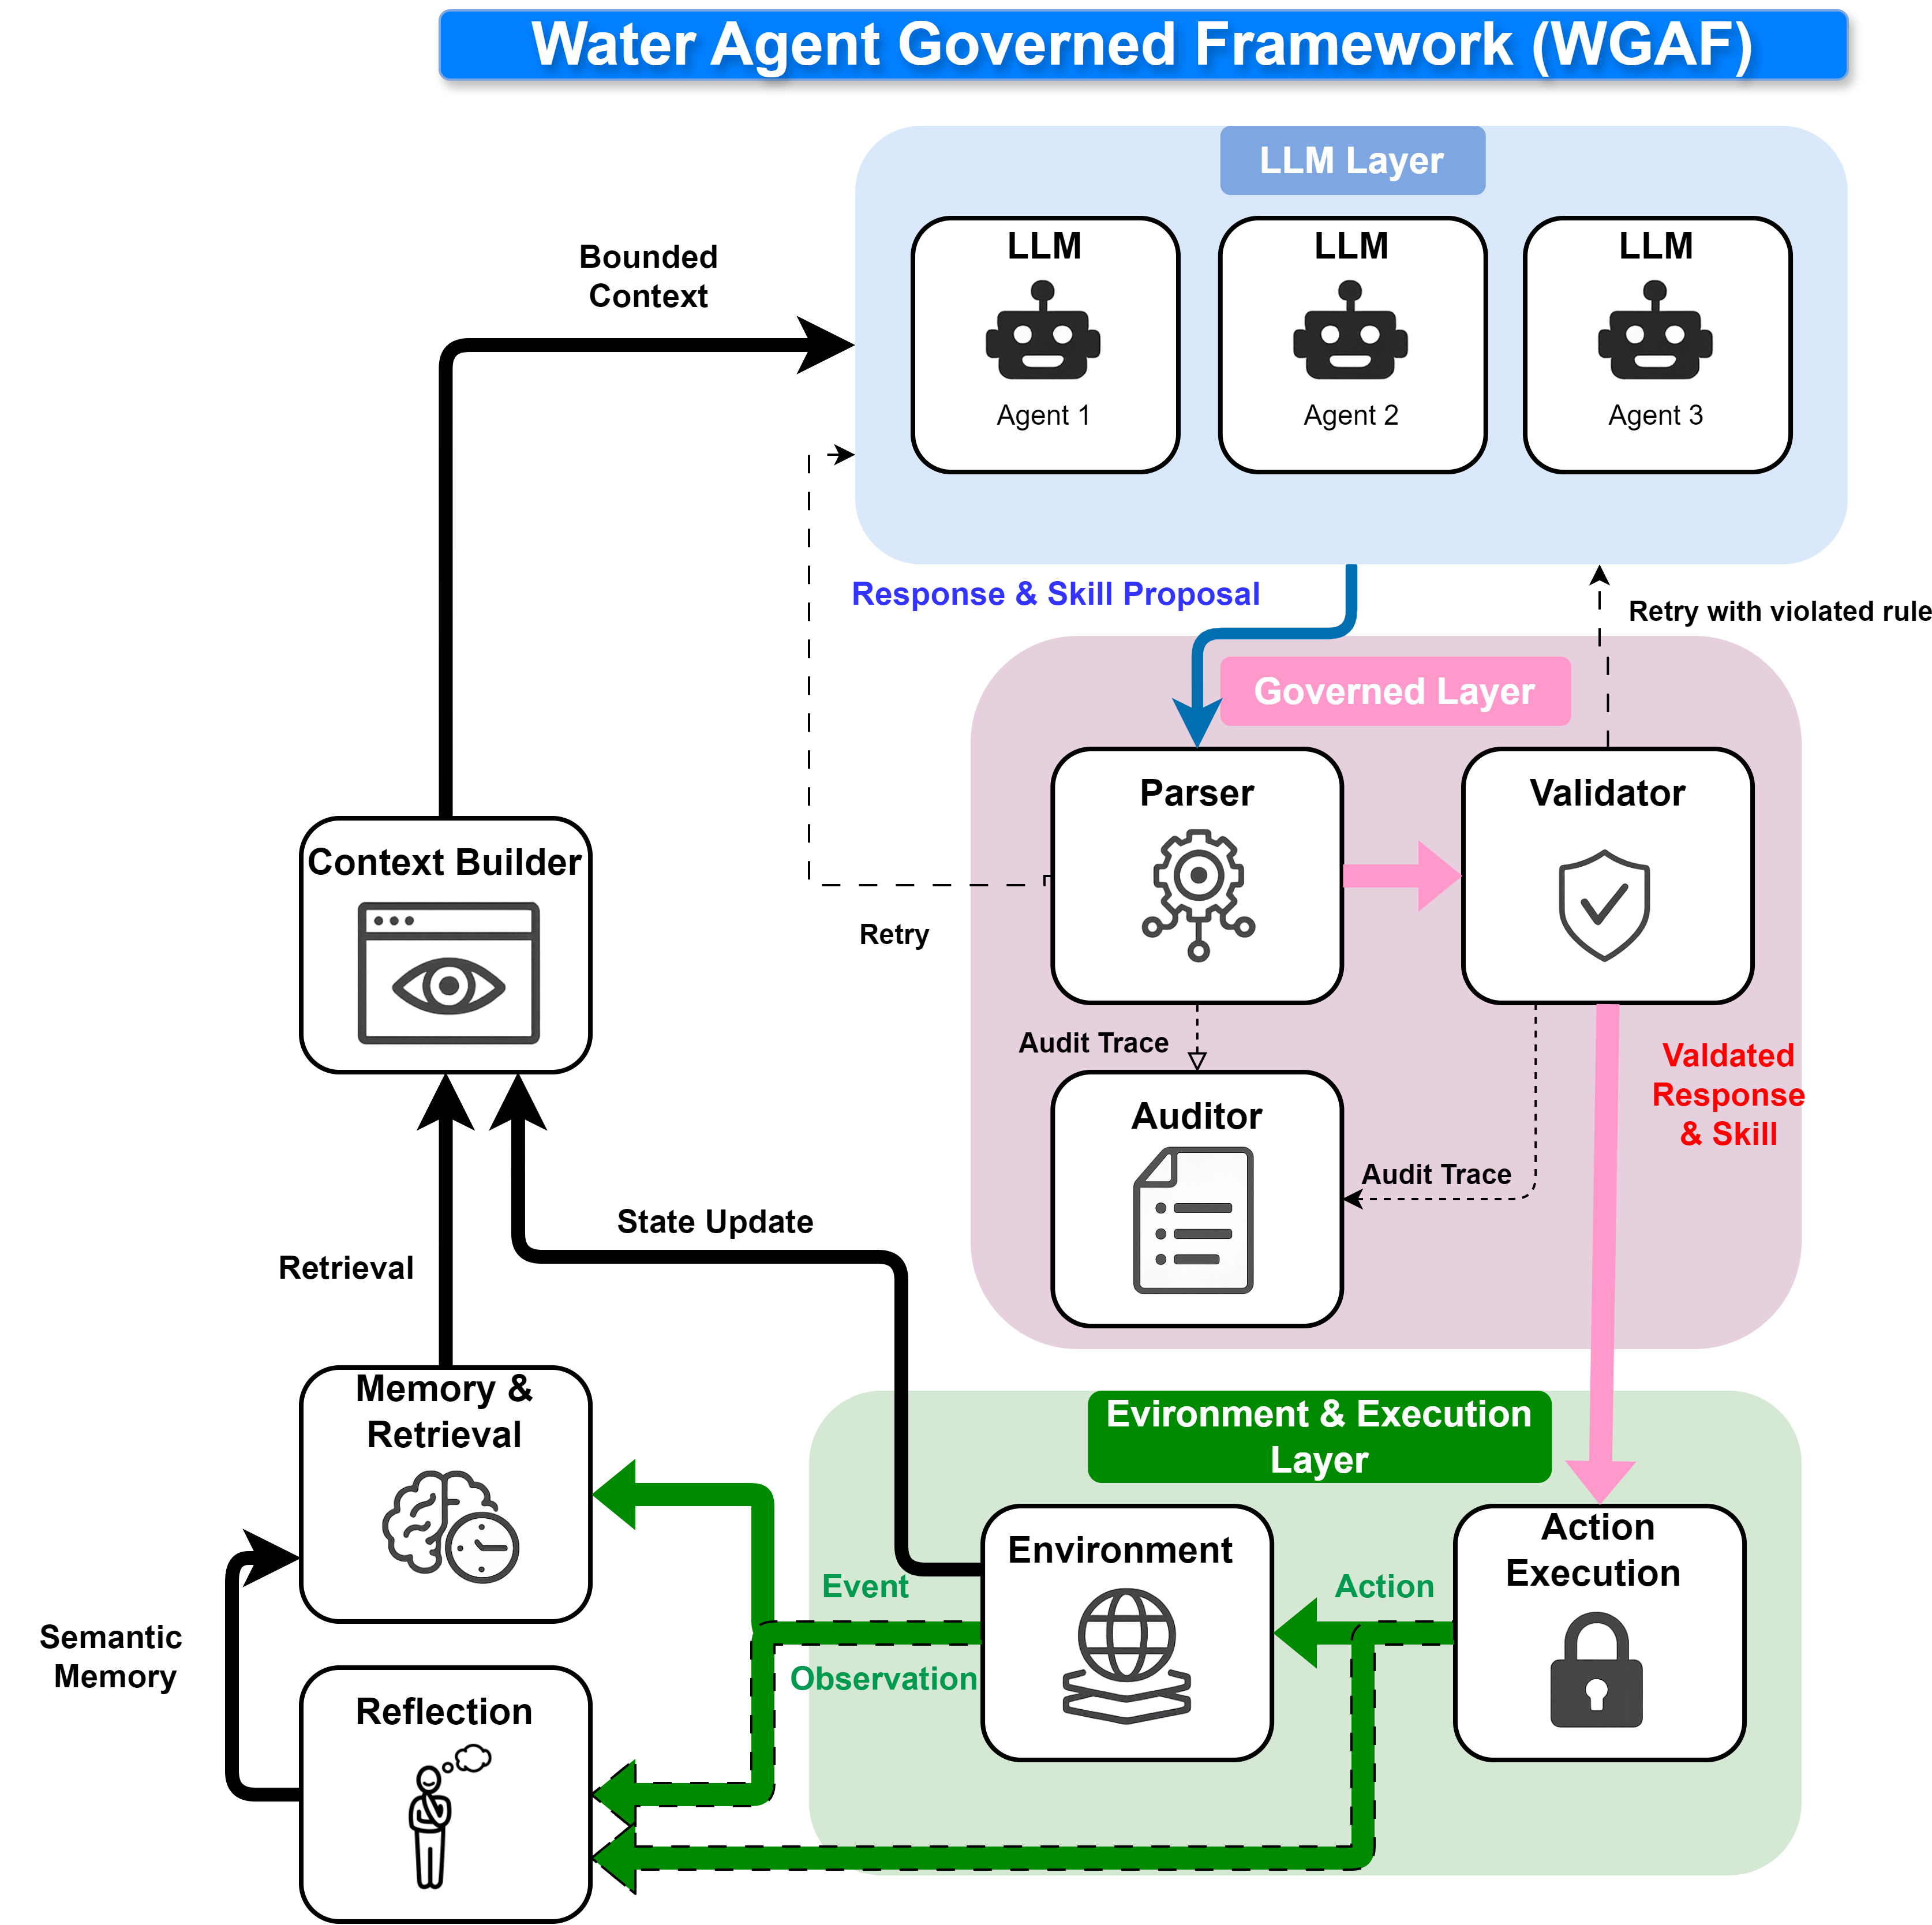
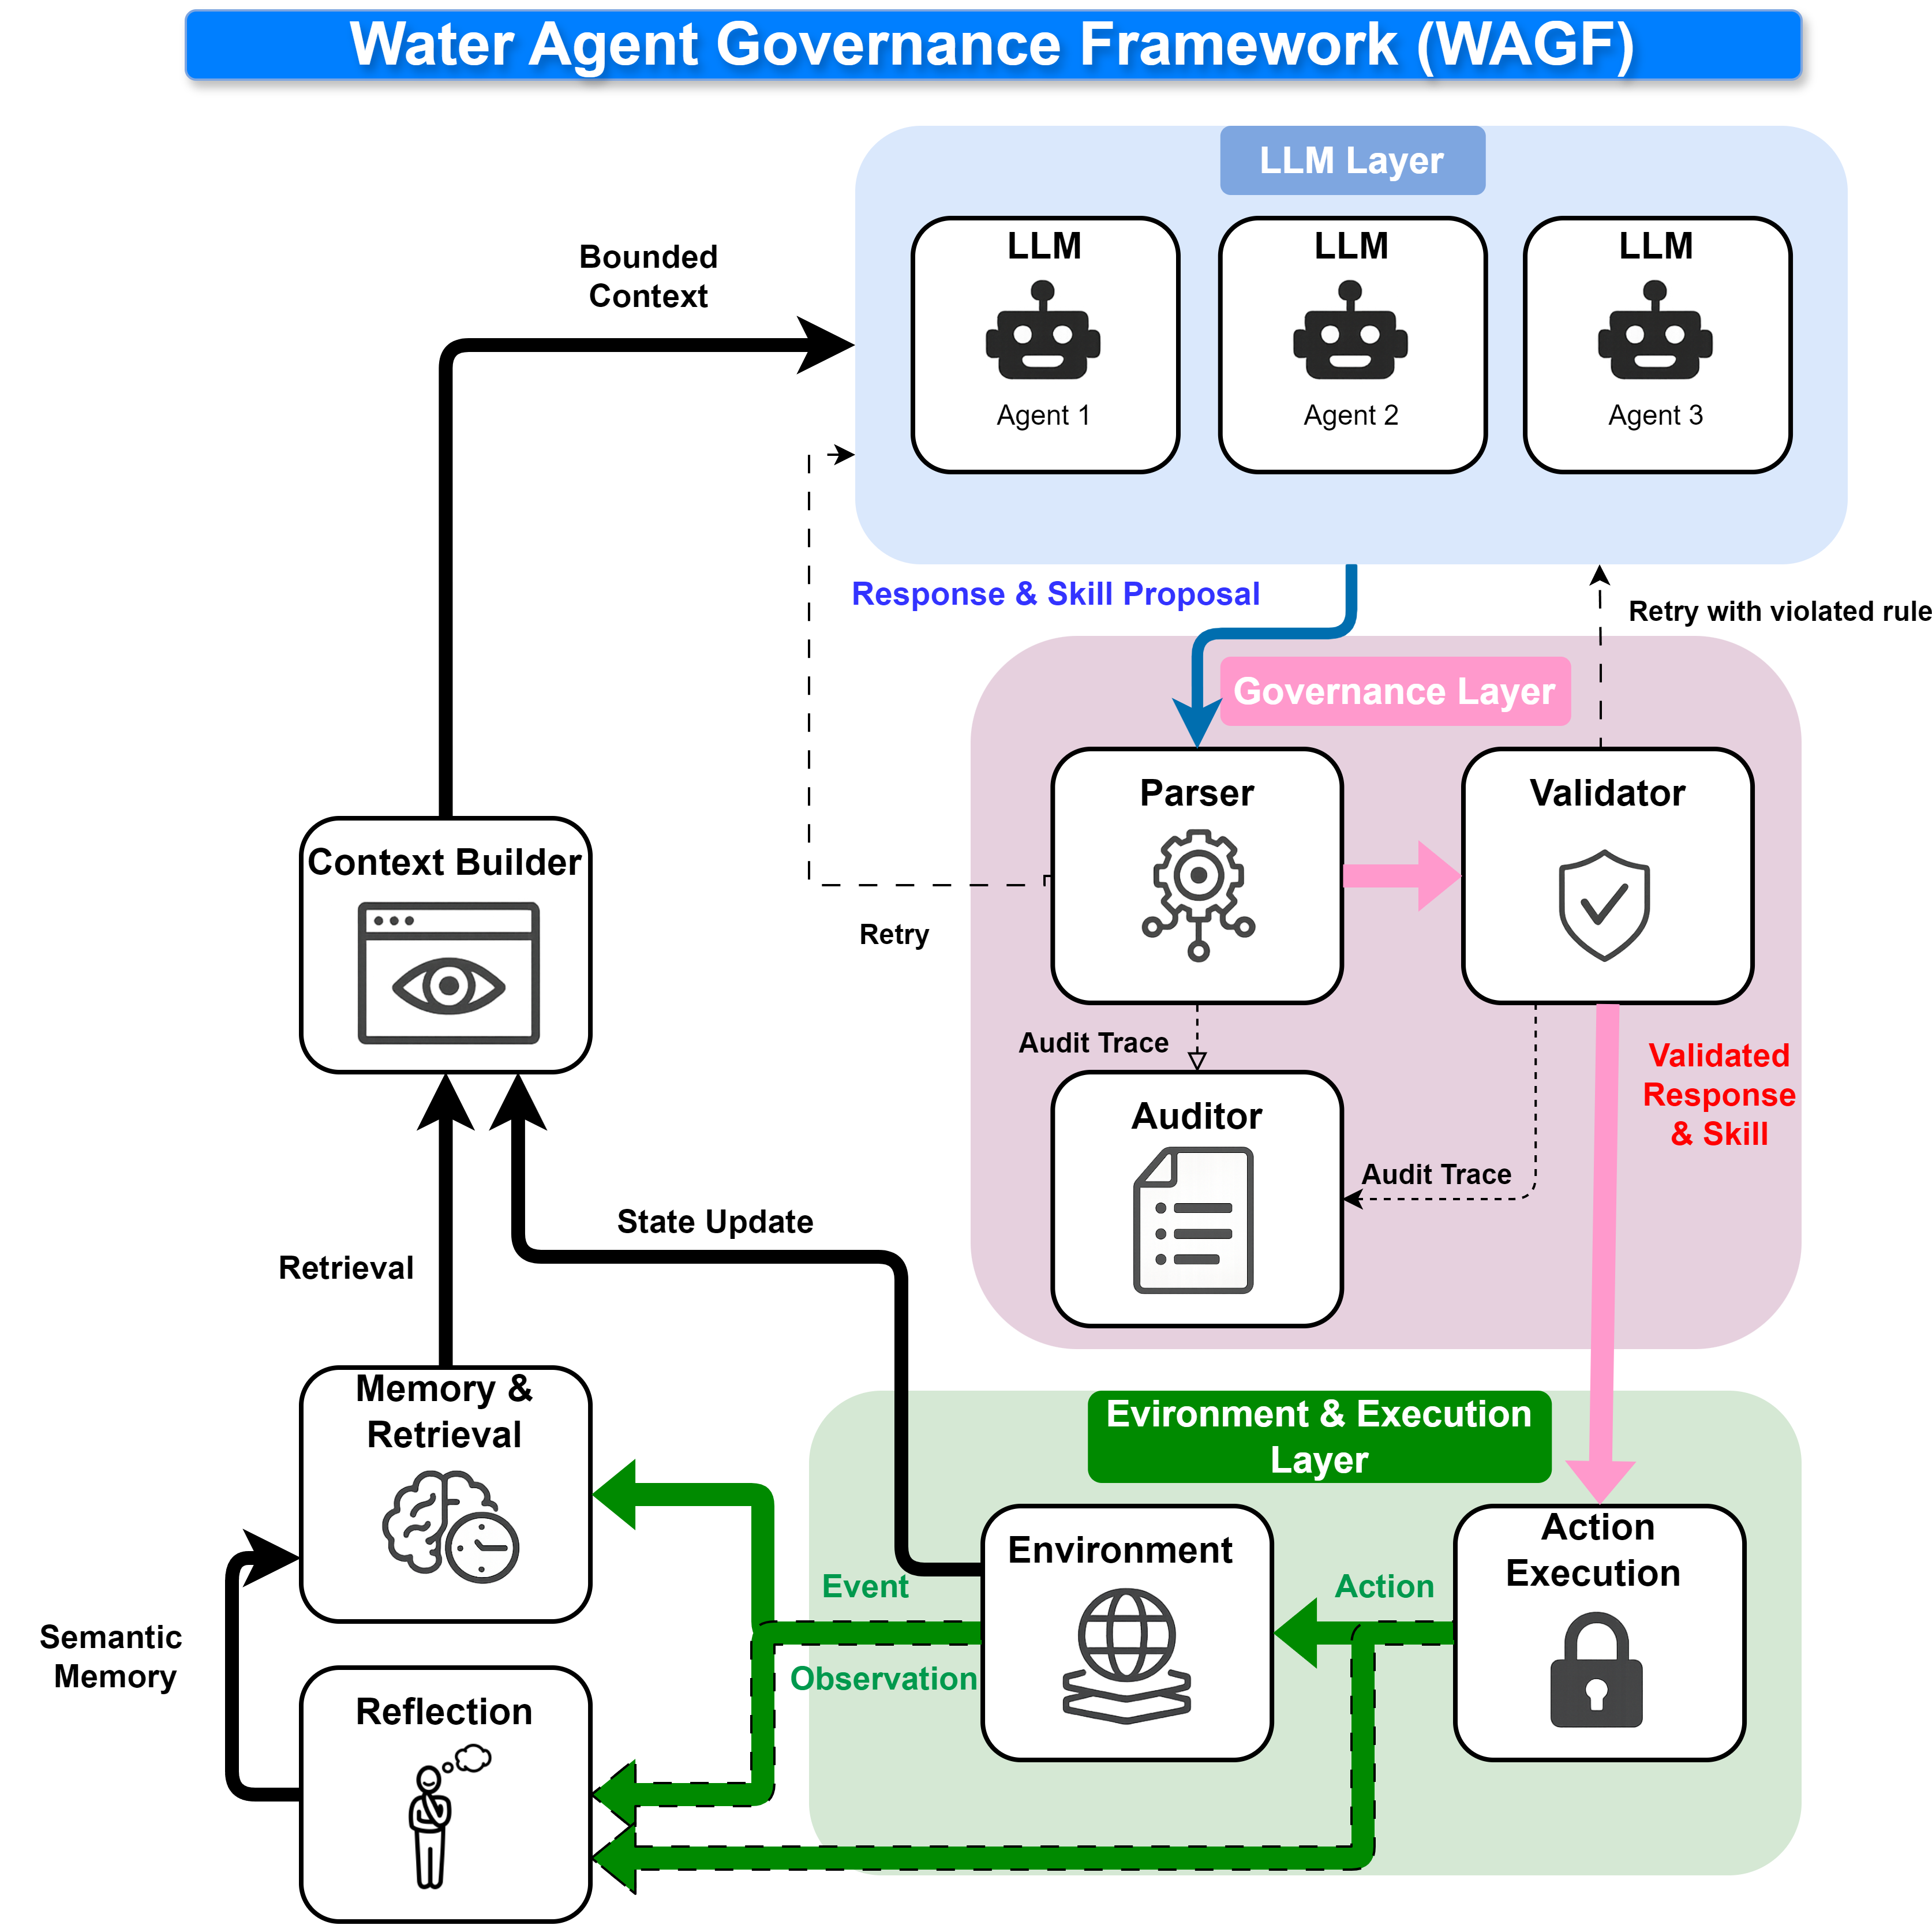
paper(NW): Fig 1 water-anchored + Fig 2/3 best-expression captions + cleanup
Fig 1 update:
- docs/architecture.png: water-themed architecture (Household agents,
  flood scene in Environment, water-aligned flow labels). Drawio source
  worked manually; PNG transferred to paper/nature_water/figures/
  (Fig1_framework.png gitignored, not staged).
- compile_paper.py: Fig 1 caption rewritten to flood-as-illustration
  framing; explicit observable (iii) cross-domain bridge to irrigation;
  Context Builder framed via "available information".

Fig 2 (irrigation case) caption:
- Title: "Colorado River irrigation case" — explicit water anchor.
- Setup follows the design tradition of Hung and Yang (2021).
- WSA / ACA letters spelled out (Very Low / Low / Moderate / High / Very High).
- Cell handling: empty cells shaded grey; pies + decision counts retained.
- Mechanism interpretation: anticipatory extraction (Libecap, 2011).

Fig 3 (flood case) caption:
- Title: "Household flood-adaptation case".
- Rule-based agent attributed as reimplementation in the style of Haer et al. (2017).
- Flood years marked F (identical hydrology trace across conditions).
- TA / CA letters spelled out.
- FI+HE composite split into constituents explained.
- Cognitive compression caveat preserved.

Paper drafts cleanup:
- Removed obsolete drafts (methods_v5, section2_v15, section3_v15) —
  earlier session cleanup; now staged as deletions.

Pending (separate decision):
- Flood-primary structural pivot (swap Fig 2 / Fig 3 order; restructure
[…]

Changed region(s): [[0.0932, 0.0, 0.963, 0.0624], [0.8387, 0.53, 0.9319, 0.5923], [0.6213, 0.3429, 0.8076, 0.3741]]

diff --git a/paper/nature_water/scripts/compile_paper.py b/paper/nature_water/scripts/compile_paper.py
@@ -374,7 +374,7 @@ def compile_main_paper():
     # ==================== ABSTRACT ====================
     add_heading(doc, "Abstract", level=1)
 
-    abstract_md = (DRAFTS / "abstract_v10.md").read_text(encoding='utf-8')
+    abstract_md = (DRAFTS / "abstract_v15.md").read_text(encoding='utf-8')
     # Extract just the abstract body (between the --- markers)
     match = re.search(r'---\s*\n(.*?)\n---', abstract_md, re.DOTALL)
     if match:
@@ -390,9 +390,9 @@ def compile_main_paper():
 
     # ==================== MAIN SECTIONS ====================
     sections_files = [
-        "introduction_v10.md",
-        "section2_v11_results.md",
-        "section3_v11_discussion.md",
+        "introduction_v16.md",
+        "section2_v17_results.md",
+        "section3_v17_discussion.md",
     ]
 
     # Figure insertion map: after which section heading to insert which figure
@@ -400,54 +400,54 @@ def compile_main_paper():
     # Main text: 3 figures (framework, irrigation, flood)
     # Tables moved to Extended Data (not counted toward 4-item limit)
     figure_after_section = {
-        "introduction_v10.md": [
+        "introduction_v16.md": [
             (FIGURES_DIR / "Fig1_framework.png",
-             "**Figure 1. Water Agent Governance Framework architecture.** "
-             "At each decision step, an LLM agent receives contextual information "
-             "(personal state, social observations, system indicators) and proposes "
-             "an action with natural-language reasoning. The governance pipeline "
-             "validates the proposal through six sequential checks: schema validation, "
-             "action legality, physical feasibility, institutional compliance, "
-             "magnitude plausibility, and theory consistency. Failed proposals receive "
-             "structured feedback for revision (up to three attempts). "
-             "All domain-specific knowledge is expressed through declarative configuration "
-             "files (action registries, agent-type specifications, persona prompts), "
-             "making the architecture transferable across water domains without code changes.",
+             "**Figure 1. Water Agent Governance Framework architecture, illustrated for the household flood-adaptation case.** "
+             "At each annual step, the Context Builder assembles the available information for an LLM household agent "
+             "(flood zone, income, prior adaptation state, persona). The agent proposes an adaptation action "
+             "(do nothing, purchase insurance, elevate, or relocate) together with natural-language reasoning that names its threat and coping appraisals. "
+             "The Governance Layer screens the proposal: the Parser converts it to a structured candidate, the Validator runs the rule-check pipeline "
+             "(behavioural rules from Protection Motivation Theory — threat × coping coherence — and physical rules such as affordability and elevation lock), "
+             "and the Auditor records both a Parsing Log and a Rule-Check Log. "
+             "Approved actions execute before the stochastic flood event resolves in the Environment; the agent then observes its own adaptation outcome "
+             "and the choices of neighbours. These observations are stored in episodic memory (Memory & Retrieval) and distilled by year-end Reflection into semantic insights that condition next year's reasoning. "
+             "The same architecture applies to the irrigation case (Fig. 2) with the Validator's rule-check set swapped to dual-appraisal scarcity coherence (Water Shortage Appraisal × Adaptive Capacity Appraisal) "
+             "and the Environment to a Colorado River reservoir mass-balance model — observable (iii) in the Introduction.",
              Inches(6.0)),
         ],
-        "section2_v11_results.md": [
+        "section2_v17_results.md": [
             (FIGURES_DIR / "Fig2_irrigation_case.png",
-             "**Figure 2. Governance shapes water-resource reasoning in the irrigation domain** "
-             "(78 agents \u00d7 42 years, Gemma-3 4B, 5 seeds each). "
-             "(**a**) Action composition over time for governed (left, IBR = 38%) and "
-             "LLM (no validator) (right, IBR = 61%) conditions. "
-             "Stacked areas show ensemble-mean action shares across 5 seeds. "
-             "Black solid line: Lake Mead elevation (right axis); "
-             "grey dashed line: fuzzy Q-learning (FQL) baseline (Hung and Yang, 2021). "
-             "Red dashed line: Tier 1 shortage threshold (1,075 ft). "
-             "Grey shading: \u00b1 1 s.d. envelope around Mead elevation. "
-             "(**b**) 5\u00d75 pie matrices decomposing action distributions by "
-             "Water Shortage Appraisal (WSA, rows) and Adaptive Capacity Appraisal (ACA, columns). "
-             "Left: governed; right: LLM (no validator). "
-             "Pie sizes proportional to decision count (n). "
-             "Background shading indicates governance violation rate per cell. "
-             "Non-compliance concentrates at the high-WSA/high-ACA boundary, "
-             "where 51.2% of governed agents proposed demand increases (all rejected).",
+             "**Figure 2. Colorado River irrigation case** "
+             "(78 agents \u00d7 42 years from 1981 to 2022, Gemma-3 4B, 5 seeds each; setup follows the design tradition of Hung and Yang, 2021). "
+             "(**a**) Stacked-area decomposition of annual action shares for Governed LLM (left) and LLM (no validator) (right). "
+             "Categories: increase_large / increase_small / maintain / decrease_small / decrease_large. "
+             "Solid black line: LLM-agent Lake Mead elevation (right axis, ft); "
+             "dashed grey line: fuzzy Q-learning baseline Lake Mead elevation; "
+             "dashed red line: Tier 1 shortage threshold (1,075 ft); "
+             "grey shading: \u00b1 1 s.d. envelope around Mead elevation across 5 seeds. "
+             "(**b**) Non-compliance signature: violation rate (%) decomposed by Water Shortage Appraisal "
+             "(WSA = Very Low / Low / Moderate / High / Very High) and Adaptive Capacity Appraisal (ACA, same letters), "
+             "for Governed LLM (left) versus LLM (no validator) (right). "
+             "Cell inserts: action-share pie charts; small-number labels show the decision count per cell; "
+             "empty cells with no decisions are shaded grey. "
+             "Validators reduce violations in every quadrant except the high-WSA \u00d7 high-ACA intersection, "
+             "where 51.2% of with-validators proposals still attempt demand increases \u2014 consistent with anticipatory extraction in prior-appropriation systems (Libecap, 2011).",
              Inches(6.0)),
             (FIGURES_DIR / "Fig3_flood_case.png",
-             "**Figure 3. Governance effect on household flood-adaptation behaviour** "
-             "(100 agents \u00d7 10 years, Gemma-3 4B, 3 seeds each). "
-             "(**a**) Cumulative protection state over 10 years for three conditions: "
-             "governed LLM (left), rule-based PMT baseline (centre), and LLM (no validator) (right). "
-             "Stacked bars show population counts by protection state "
-             "(DN = do nothing, FI = flood insurance, HE = home elevation, "
-             "FI+HE = both, RL = relocation). "
-             "(**b**) 5\u00d75 pie matrices decomposing action distributions by "
-             "Threat Appraisal (TA, rows) and Coping Appraisal (CA, columns). "
-             "Left: LLM (no validator); right: governed LLM. "
-             "Background shading indicates governance violation rate per cell. "
-             "92% of governed agents self-assessed coping appraisal at a single level (M, moderate), "
-             "suggesting governance success in flood partially reflects cognitive compression.",
+             "**Figure 3. Household flood-adaptation case** "
+             "(100 agents \u00d7 10 years, Gemma-3 4B, 5 seeds each for LLM conditions, 3 for rule-based; "
+             "rule-based agent is our reimplementation in the style of Haer et al., 2017). "
+             "(**a**) Annual population counts by protective strategy for Governed LLM (left), "
+             "rule-based PMT agent (centre), and LLM (no validator) (right). "
+             "Stack categories: DN = do nothing, FI = flood insurance, HE = house elevation, "
+             "FI+HE = both, RL = relocation. Pink F markers indicate flood years (identical hydrology trace across conditions). "
+             "(**b**) Non-compliance signature: violation rate decomposed by Threat Appraisal "
+             "(TA = Very Low / Low / Moderate / High / Very High) and Coping Appraisal (CA, same letters), "
+             "for Governed LLM and LLM (no validator). "
+             "Cell inserts: action-share pies; the FI+HE composite is split into constituent actions for diversity computation (Methods \u00a7Strategy diversity metric). "
+             "Validators reduce the high-threat / moderate-coping violation count tenfold while preserving action-share diversity across cells; "
+             "92% of with-validators agents self-assessed coping at a single level (M, moderate), "
+             "suggesting that the validator effect in flood partially reflects compression of cognitive differentiation rather than genuinely diverse adaptive reasoning (see Discussion).",
              Inches(6.0)),
         ],
     }
@@ -507,7 +507,7 @@ def compile_main_paper():
                     add_figure(doc, fig_path, fig_caption, width=fig_width)
 
     # ==================== METHODS ====================
-    methods_md = (DRAFTS / "methods_v3.md").read_text(encoding='utf-8')
+    methods_md = (DRAFTS / "methods_v7.md").read_text(encoding='utf-8')
     elements = extract_body_and_tables(methods_md)
     render_elements(elements)
 
@@ -607,7 +607,7 @@ def compile_main_paper():
         fldChar2 = parse_xml(f'<w:fldChar {nsdecls("w")} w:fldCharType="end"/>')
         run3._element.append(fldChar2)
 
-    out_path = OUTPUT / "NatureWater_MainText_v21.docx"
+    out_path = OUTPUT / "NatureWater_MainText_v25.docx"
     doc.save(str(out_path))
     print(f"Main paper saved to: {out_path}")
     return out_path
@@ -645,7 +645,7 @@ def compile_si():
                          space_after=Pt(24))
 
     # Parse SI
-    si_md = (DRAFTS / "supplementary_information.md").read_text(encoding='utf-8')
+    si_md = (DRAFTS / "supplementary_information_v13.md").read_text(encoding='utf-8')
     elements = extract_body_and_tables(si_md)
 
     for etype, content in elements:
@@ -689,7 +689,7 @@ def compile_si():
     # Line numbers
     add_line_numbers(doc)
 
-    out_path = OUTPUT / "NatureWater_SI_v21.docx"
+    out_path = OUTPUT / "NatureWater_SI_v25.docx"
     doc.save(str(out_path))
     print(f"SI saved to: {out_path}")
     return out_path

diff --git a/paper/nature_water/drafts/supplementary_information_v13.md b/paper/nature_water/drafts/supplementary_information_v13.md
@@ -87,6 +87,44 @@ The governance pipeline validates each agent decision through validators organis
 
 *Notes: Behavioural governance rules (1–4) are derived from Protection Motivation Theory and constitute the paper's primary governance contribution. The same rules are applied post-hoc to compute IBR: rules 3 and 4 correspond to IBR violation types V1 (relocation under low threat) and V2 (elevation under low threat); rule 1 corresponds to V3 (inaction under extreme threat), which is excluded from the reported IBR because the pipeline intercepted all violations before execution (see Supplementary Note 5). Rule 2 operates at WARNING severity, which for small LLMs (≤ 4B parameters) produces no measurable behavioural change — a boundary condition of soft governance. Domain constraints (5–8) enforce feasibility checks standard in any flood ABM. Epistemic guardrails (9–12) address reasoning errors unique to LLM-based agents; these operate at WARNING severity and are not included in IBR computation.*
 
+**Supplementary Table 1b. Policy and theoretical justification for irrigation domain validators.**
+
+Each validator is anchored in a specific institutional rule, behavioural theory, or peer-reviewed empirical study. We do not introduce free-parameter constraints; the validator set is the operationalisation of pre-existing institutional and theoretical knowledge.
+
+| # | Validator | Primary justification | Citation |
+|---|-----------|------------------------|----------|
+| 1 | Water-right cap | Colorado River Compact (1922) prior-appropriation system; CRSS demand-node allocations | Maass (1962); Yang (2009); Hung & Yang (2021) |
+| 2 | Non-negative diversion | Physical conservation (mass balance) | — (axiom) |
+| 3 | Minimum utilisation floor | "Use it or lose it" provisions in Colorado River law (forfeiture for non-use) | Yang (2009) |
+| 4 | Demand-floor stabiliser | Empirical irrigation demand stability under drought (year-over-year demand floor) | Hung (2022) |
+| 5 | Demand-ceiling rule | Bureau of Reclamation demand-side aggregate constraints in CRSS operations | Loucks (2017) |
+| 6 | Drought severity tiers | 2007 Interim Guidelines + 2019 Drought Contingency Plans (Lower Basin Tier 1/2/3 cuts) | Loucks (2017); Hung & Yang (2021) |
+| 7 | Magnitude cap | Heuristic-based demand-adjustment magnitudes derived from CRSS persona clustering | Hyun & Yang (2019); Lin (2022) |
+| 8 | Supply-gap block | Carry-over irrigation behaviour under unmet demand (year-following-shortage moderation) | Hung (2022); Lin (2022) |
+| 9 | Curtailment awareness | Lower Basin curtailment hierarchy under shortage tiers | Loucks (2017); Hung (2022) |
+| 10 | Compact allocation | 1922 Colorado River Compact; 1948 Upper Colorado River Basin Compact | Maass (1962); Yang (2009) |
+| 11 | Consecutive-increase cap | Coupled human–natural-system feedback theory (memory of recent drought shapes adaptation) | Liu (2007); Sivapalan (2012); Di Baldassarre (2013) |
+| 12 | WSA–ACA coherence | Dual appraisal cognitive theory (water-shortage appraisal × adaptive-capacity appraisal); analogous to PMT structure for non-flood hazards | Schlüter (2017); Park et al. (2023) |
+
+**Supplementary Table 2b. Policy and theoretical justification for flood domain validators.**
+
+| # | Validator | Primary justification | Citation |
+|---|-----------|------------------------|----------|
+| 1 | Extreme-threat block (PMT) | Protection Motivation Theory: high threat perception predicts protective action propensity | Rogers (1983); Bubeck et al. (2012) |
+| 2 | Low-coping block (PMT) | Protection Motivation Theory: low coping appraisal suppresses costly adaptation | Rogers (1983); Bubeck & Botzen (2018) |
+| 3 | Relocation-threat-low (PMT) | Empirical: relocation occurs only under sustained high threat, not at low threat | Bubeck et al. (2012); Haer et al. (2017) |
+| 4 | Elevation-threat-low (PMT) | Empirical: elevation as costly protective action requires above-baseline threat appraisal | Bubeck et al. (2012); Haer et al. (2017) |
+| 5 | Re-elevation block (config) | Physical irreversibility of structural elevation; declared in skill-registry preconditions | — (axiom); FEMA P-312 |
+| 6 | Re-elevation block (code) | Defence-in-depth duplicate of rule 5 enforced in Python validator | — (engineering practice) |
+| 7 | Post-relocation block | Tenure logic: agent who relocated no longer owns property at risk | — (axiom) |
+| 8 | Elevation affordability | Income-constrained adaptation: elevation requires liquid savings ≥ FEMA-estimated cost | Haer et al. (2017); FEMA P-312 |
+| 9 | Majority-deviation warning | Social-proof effects in flood-adaptation ABMs: neighbour-network observation shapes choice | Castilla-Rho et al. (2017); Haer et al. (2017) |
+| 10 | Social-proof hallucination | LLM-specific guardrail: prevents fabricated neighbour-action references | Huang et al. (2025) |
+| 11 | Temporal grounding | LLM-specific guardrail: prevents fabricated past flood references | Huang et al. (2025) |
+| 12 | State consistency | LLM-specific guardrail: prevents reasoning that contradicts agent state | Huang et al. (2025) |
+
+*Notes: For both irrigation and flood, the validator set deliberately encodes only **independently established** institutional rules (Compact law, FEMA elevation cost data, NFIP eligibility) and **peer-reviewed** behavioural theories (PMT, dual appraisal, coupled human–natural feedback); we did not introduce post-hoc "validators" tuned to the experimental data. This separation is the basis of the minimum-intervention design framing in Methods §Broker Architecture: institutional rules act as guardrails against unambiguously irrational behaviour, leaving the remaining decision space (≥ 80% of the (cognition, action) cells) to LLM-driven reasoning.*
+
 ---
 
 ## Supplementary Note 3. LLM Prompt Templates